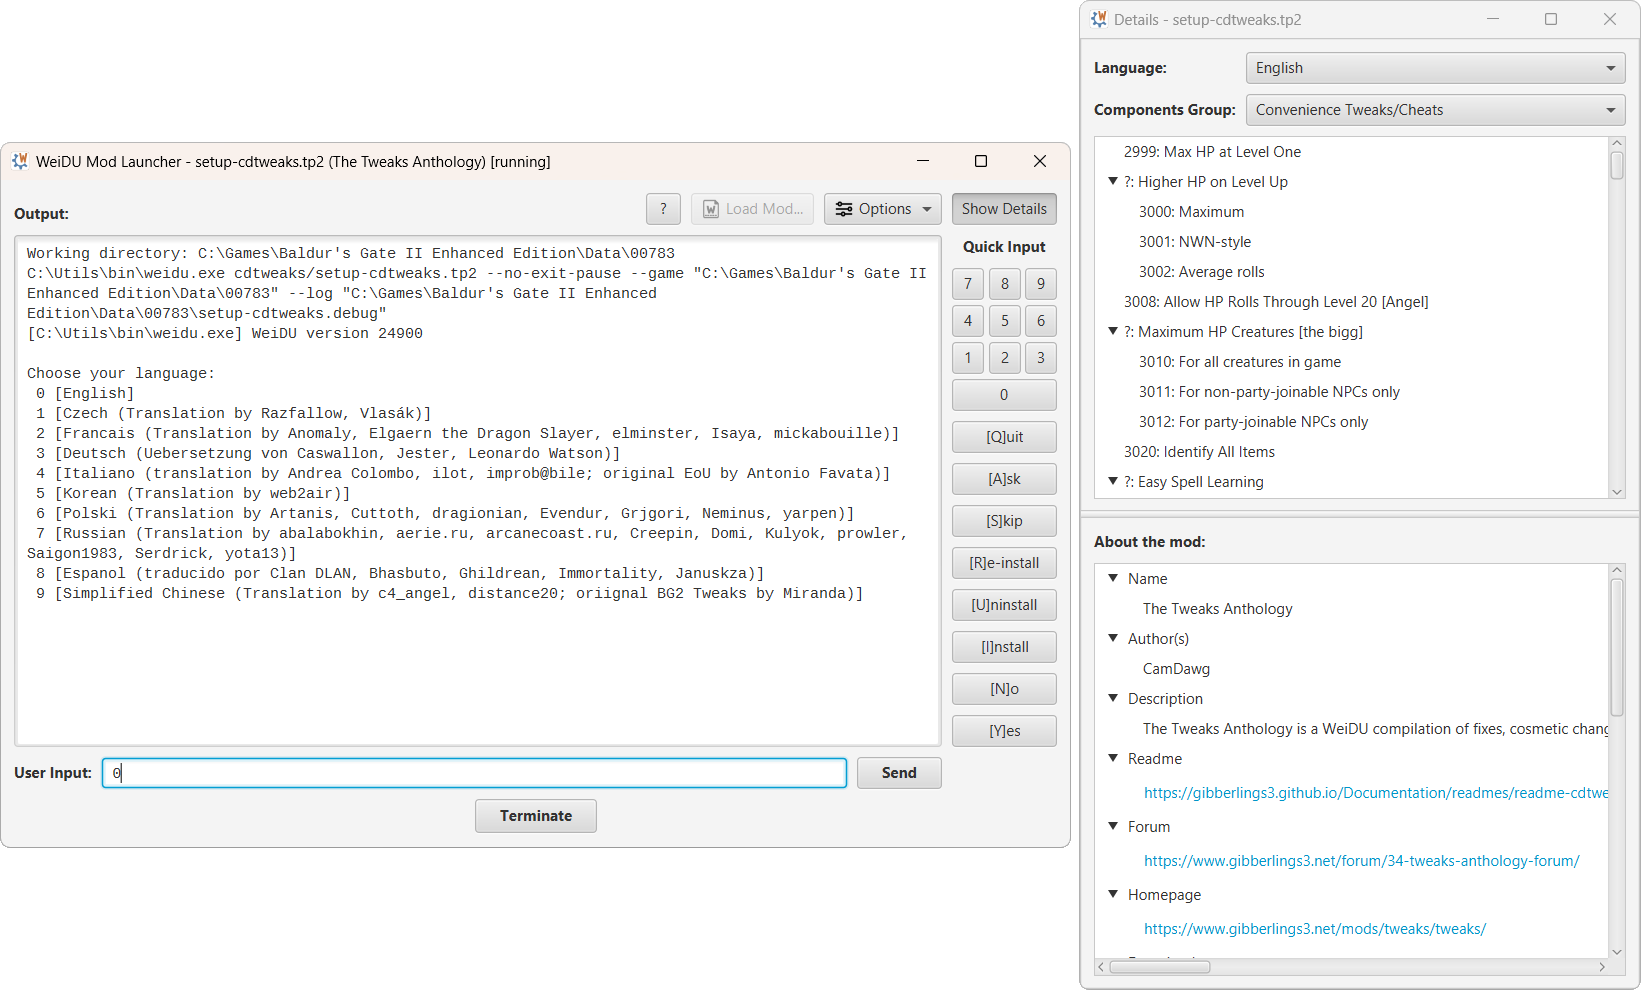
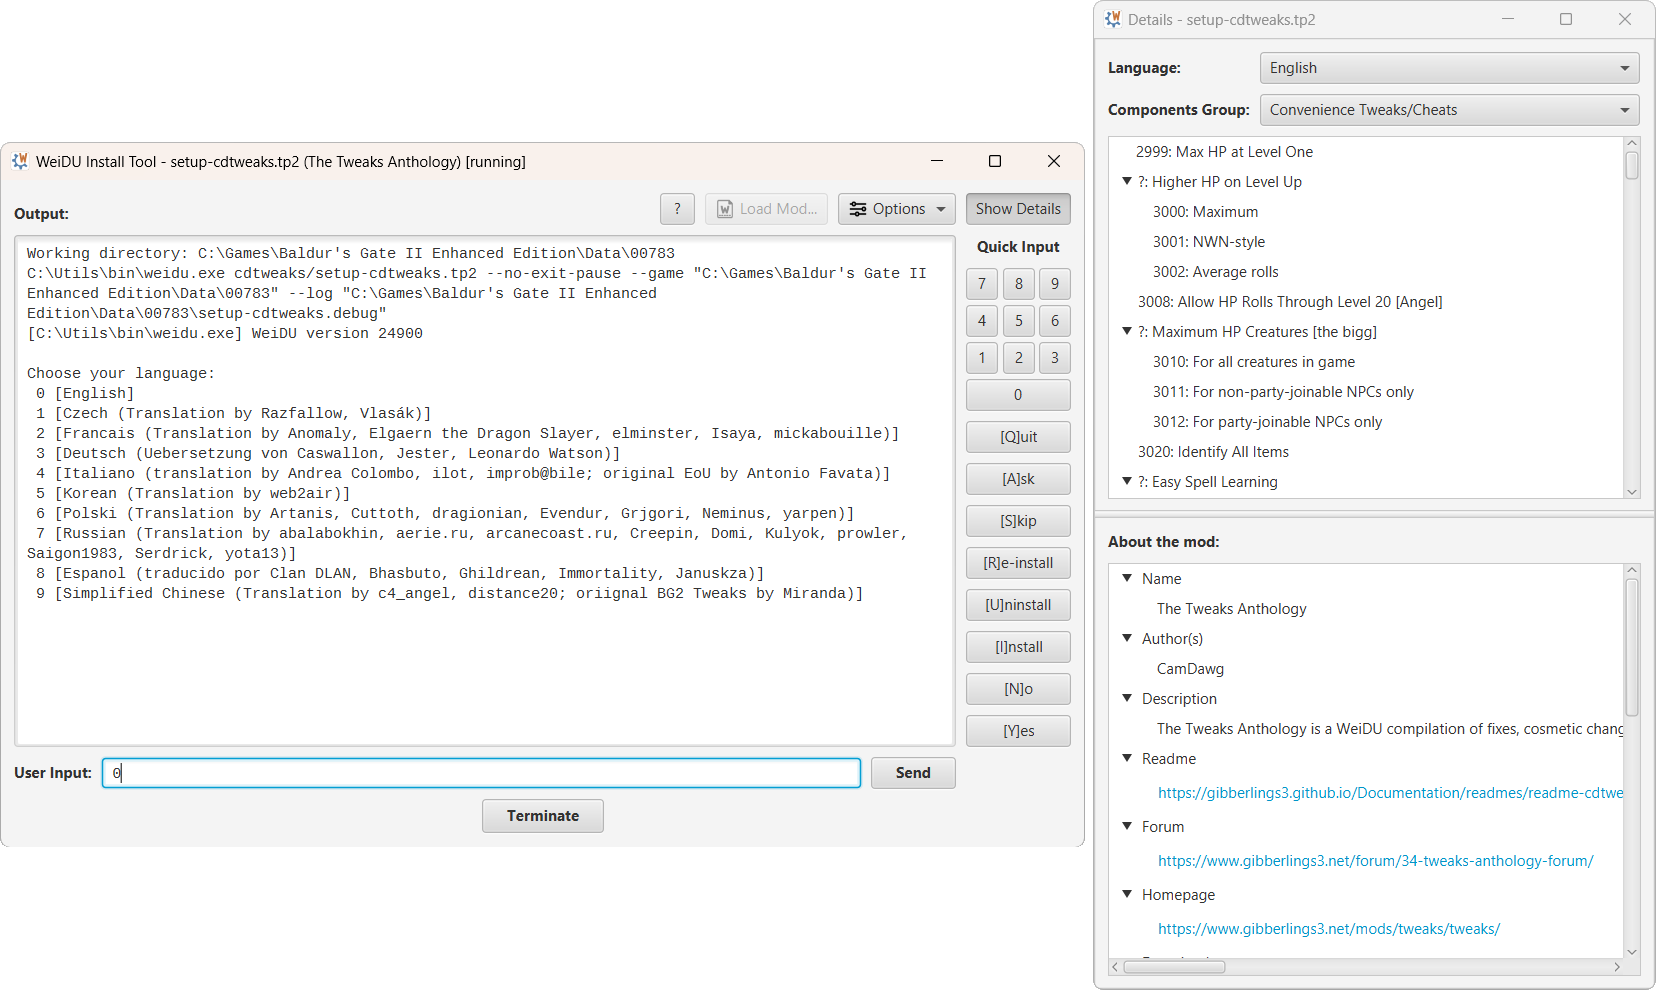
Update README.md

diff --git a/README.md b/README.md
@@ -1,14 +1,12 @@
-<!--
-[![GitHub release (latest)](https://img.shields.io/github/v/release/InfinityTools/WeiduInstallTool?color=darkred&label=latest%20release)](https://github.com/InfinityTools/WeiduInstallTool/releases/latest)
+<!--[![GitHub release (latest)](https://img.shields.io/github/v/release/InfinityTools/WeiduInstallTool?color=darkred&label=latest%20release)](https://github.com/InfinityTools/WeiduInstallTool/releases/latest)
 [![GitHub release date (latest)](https://img.shields.io/github/release-date/InfinityTools/WeiduInstallTool?color=gold)](https://github.com/InfinityTools/WeiduInstallTool/releases/latest)
-[![Github downloads](https://img.shields.io/github/downloads/InfinityTools/WeiduInstallTool/total.svg?color=blueviolet)](https://github.com/InfinityTools/WeiduInstallTool/releases)
--->
+[![Github downloads](https://img.shields.io/github/downloads/InfinityTools/WeiduInstallTool/total.svg?color=blueviolet)](https://github.com/InfinityTools/WeiduInstallTool/releases)-->
 # WeiDU Install Tool
 *A graphical front end for WeiDU Mods.*
 
-WeiDU Install Tool is a graphical front end for the [WeiDU command line tool](https://github.com/WeiDUorg/weidu) which is used to install mods for Infinity Engine games, such as Baldur's Gate, Icewind Dale or Planescape Torment. The front end is written in Java and uses the JavaFX framework to provide a modern UI.
+WeiDU Install Tool is a graphical front end for the [WeiDU command line tool](https://github.com/WeiDUorg/weidu) to install modifications for Infinity Engine games, such as Baldur's Gate, Icewind Dale or Planescape Torment. The front end is written in Java and uses the JavaFX framework to provide a modern UI.
 
-The application offers all functionality of the WeiDU command line interpreter as well as many usability improvements and convenience features to help with the mod installation task.
+The tool offers all the functionality of the WeiDU command line interpreter as well as many usability improvements and convenience features to help with the mod installation task. *It is not intended to be a full-fledged mod manager like Project Infinity.*
 
 ![main window](preview/mainwindow-plus.png)
 
@@ -16,25 +14,25 @@ The application offers all functionality of the WeiDU command line interpreter a
 
 ### Tp2 Mod File Association
 
-The installed version of WeiDU Install Tool is automatically associated<sup>*</sup> with tp2 mod files which allows you to quickly and conveniently install mods from the file manager without having to deal with setup executables.
+The installed version of WeiDU Install Tool is automatically associated<sup>*</sup> with tp2 mod files which allows you to quickly and conveniently install mods from the file manager without having to deal with setup executables or the command line.
 
 <small><em><sup>*</sup> Not available on macOS.</em></small>
 
 ### Drag and Drop Support
 
-The application also provides drag and drop support. Tp2 files or the mod folders themselves can be dropped onto an open application instance to initiate the mod installation process if no other mod is currently being installed.
+This feature allows you to drop tp2 files or the mod folders themselves onto an open WeiDU Install Tool instance to initiate the mod installation process if no other mod is currently being installed.
 
 ### Detailed Mod Information
 
-The application provides detailed information about the currently installed mod, which includes a tree view of available components with filters for mod language and component groups. Moreover, general information about the mod will be shown if available, which includes the mod name and author, a short summary of the mod content, as well as links to the mod's homepage, readme and download location, and optional dependencies.
+The application provides information about the currently installed mod to get a detailed overview about the purpose of the mod and available installation options. Available mod components are presented in a tree-like structure. They can be shown in any of the available mod languages and optionally filtered by component groups. A separate section provides more general information about the mod which includes the mod name and author, a short summary of the mod content, as well as links to the mod's homepage, readme and download location, and optional dependencies.
 
 ### Customization
 
 Customization of the WeiDU Install Tool includes:
-- Displaying UI text and messages in the user language if available
-- Toggling between light and dark mode UI on-the-fly
-- Setting output text size and character encoding
-- Showing visual hints about the installation state
+- Displaying UI text and messages in the language native to the user if available
+- Toggling between a light and dark user interface on-the-fly
+- Specifying output text size and character encoding
+- Displaying visual hints about the installation state
 - Warnings about potential mod conflicts
 - and more…
 
@@ -46,7 +44,7 @@ Installation builds are available as installers and portable packages for Window
 
 **Required tools:**
 - [Gradle Build Tool](https://gradle.org/)
-- [Oracle's JDK 21 or later](https://www.oracle.com/de/java/technologies/downloads/), or [OpenJDK 21 or later](https://adoptium.net/temurin/releases/?version=21)
+- [OpenJDK 21 or later](https://adoptium.net/temurin/releases/?version=21) or [Oracle's JDK 21 or later](https://www.oracle.com/de/java/technologies/downloads/)
 
 *Note: JDK 21 is automatically provided if an older Java installation is found on the system.*
 
@@ -78,7 +76,7 @@ chmod +x gradlew
 ./gradlew portableTar
 ```
 
-The resulting package(s) can be found in the `./build/distribution` folder. File type associations are only configured by the installer version of the tool.
+The resulting package(s) can be found in the `./build/distribution` folder. Start menu entries and file type associations are only set up by the installer version of the tool.
 
 The `jpackage` task requires the following software to be installed on the system:
 - Windows: [WiX 3.0](https://wixtoolset.org) or later is required.
